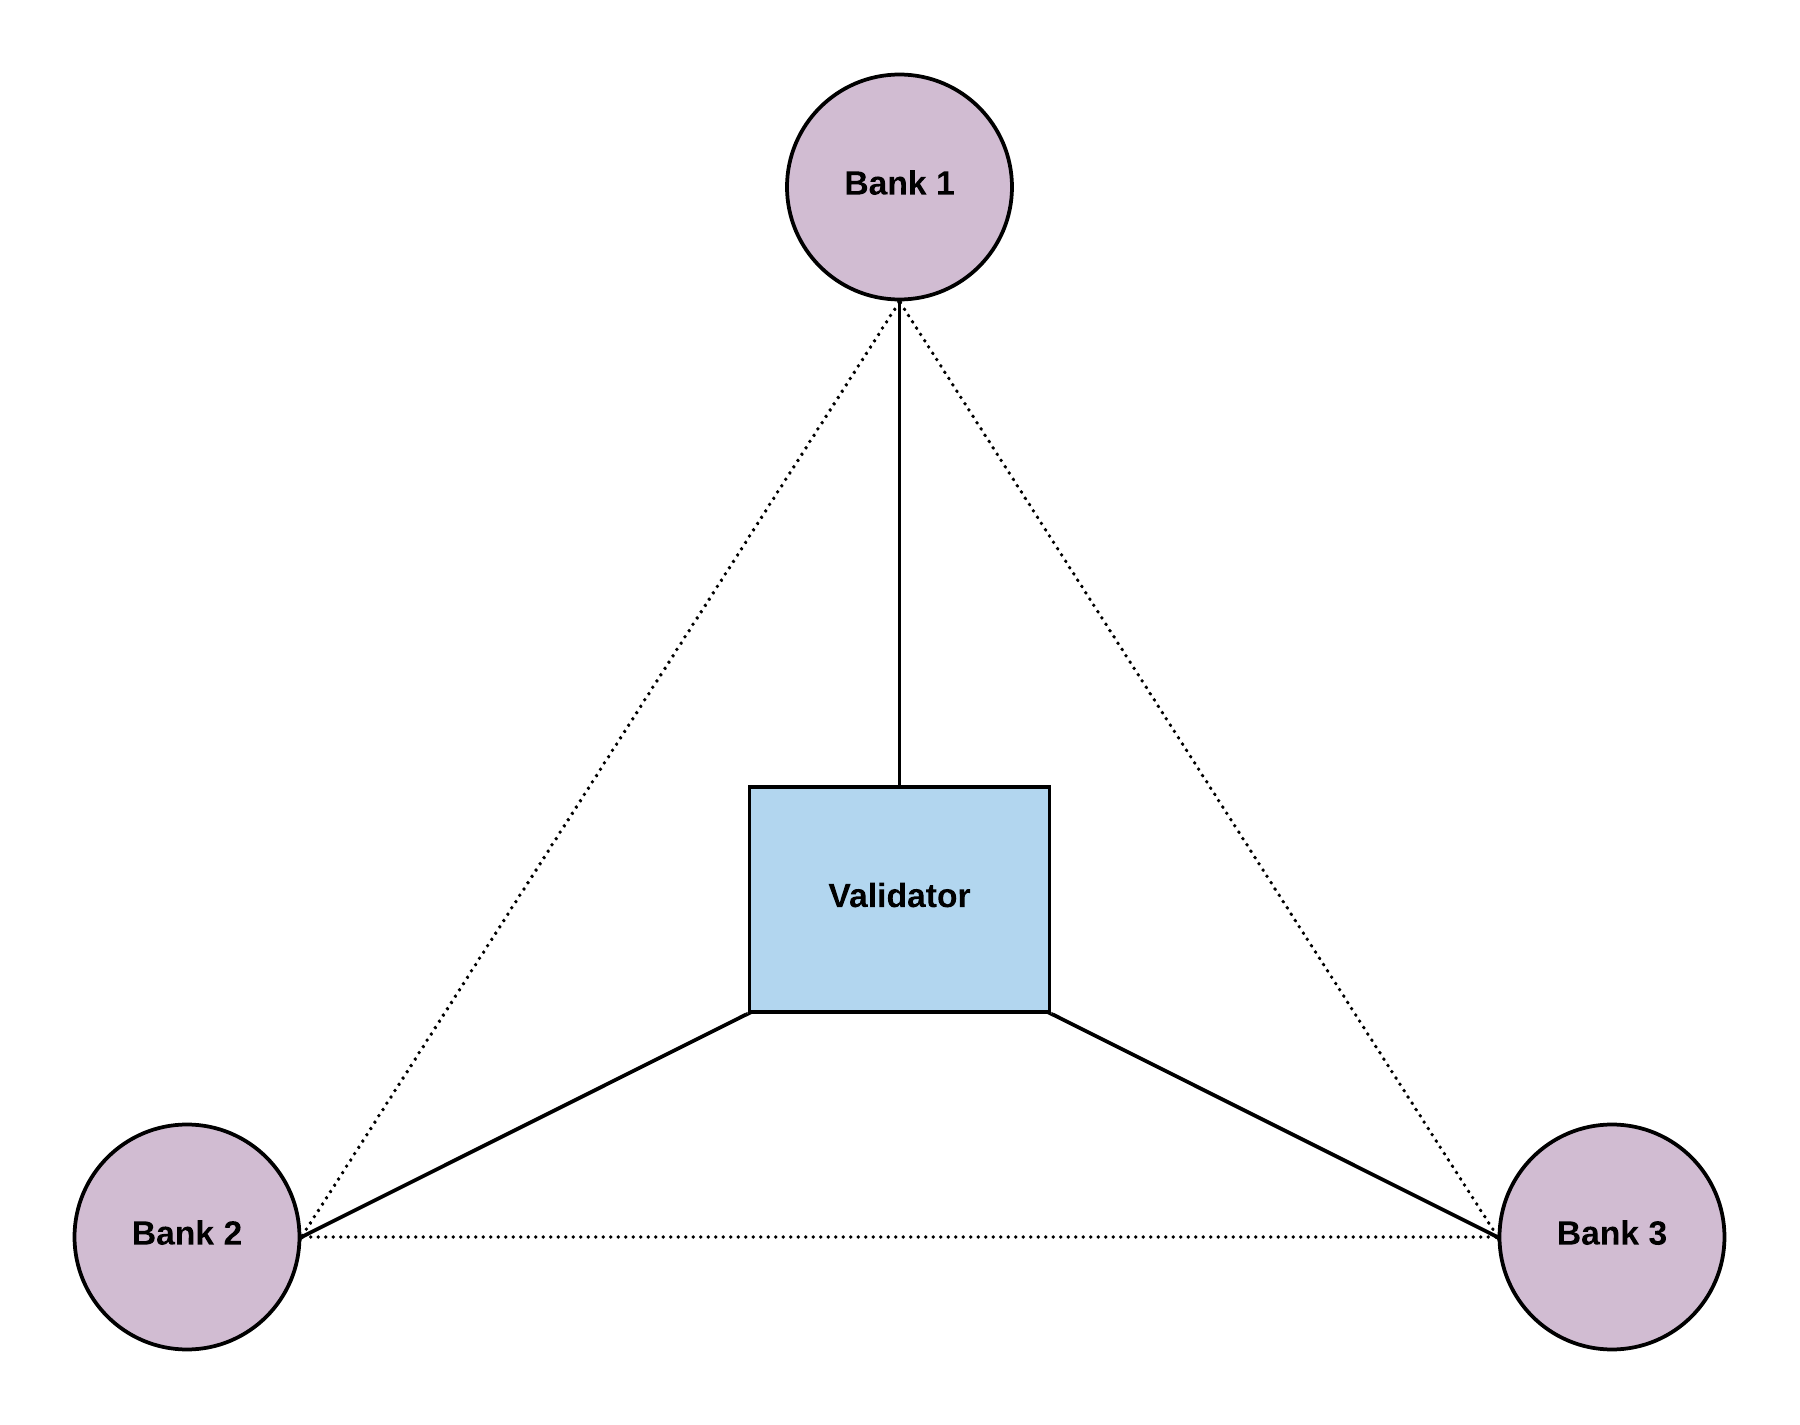
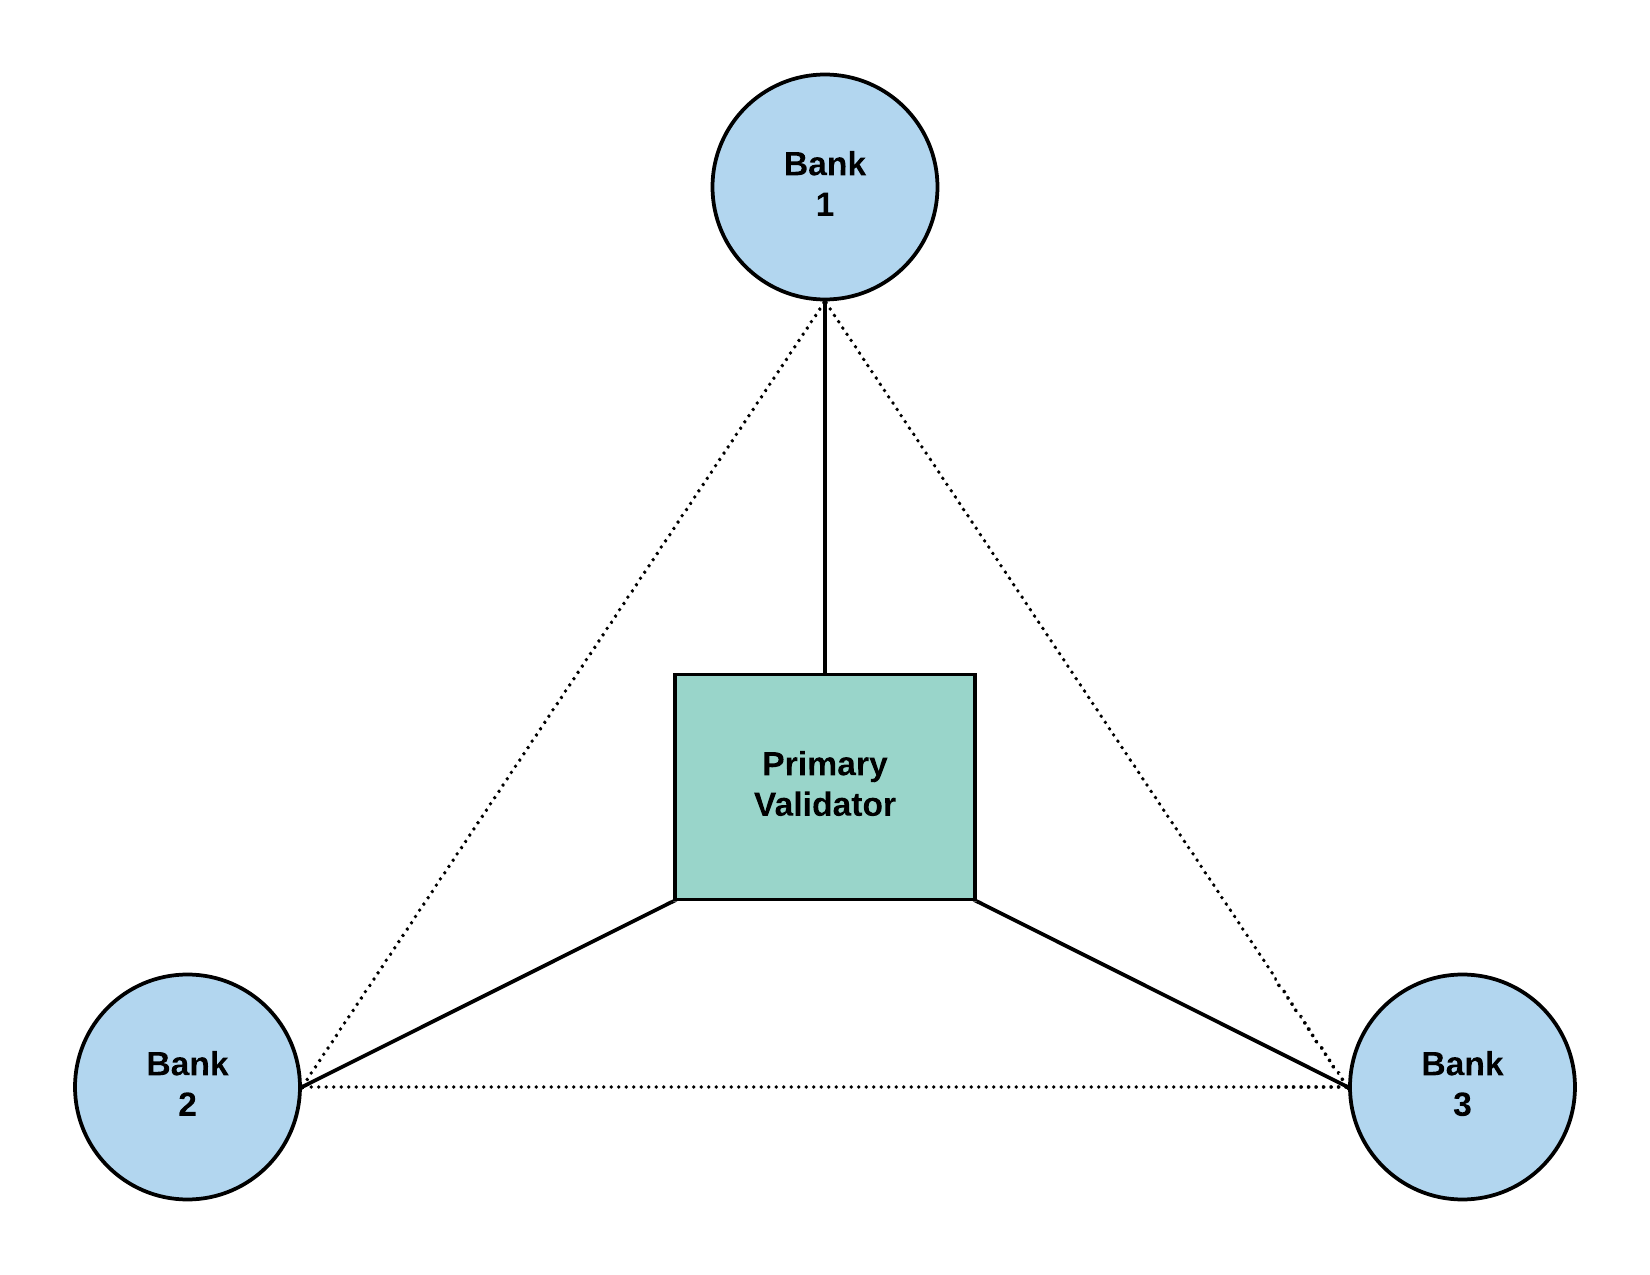
Working on Bank page

diff --git a/src/containers/Docs/Banks/index.tsx b/src/containers/Docs/Banks/index.tsx
@@ -17,7 +17,7 @@ const Banks = () => {
       <p>
         Regarding network related responsibilities, banks are responsible for assigning trust levels to validators. This
         will allow the network to not only reach consensus of the primary validator, but also determine the line of
-        succession from a list of backup validators in the event the primary validator were to go offline.
+        succession from a list of confirmation validators in the event the primary validator was to go offline.
       </p>
       <p>
         The election of a trusted validator is performed by all banks through the processes of setting a chosen
@@ -25,9 +25,11 @@ const Banks = () => {
         who has earned the highest amount of trust, but is not a strict requirement. Only one primary validator is
         allowed per bank.
       </p>
+
       <div className="img-container">
         <img alt="validator election" className="validator-election" src={ValidatorElection} />
       </div>
+
       <p>
         Given the architecture of a peer-to-peer network, all bank nodes are always in constant communication with one
         another. This will allow them to view each other's trust levels of all validators on the network. Through doing
@@ -50,27 +52,29 @@ const Banks = () => {
         In addition to the responsibilities to the network, banks also have responsibilities to their users (account
         owners). When users first download account manager applications and create their accounts, they will then select
         a bank in which they wish to register an account with. Upon successful registration with the bank, they are then
-        able to connect to the network through that bank and may begin sending transactions.
+        able to connect to the network through that bank and may begin sending blocks.
       </p>
       <p>
         Banks prevent users from the need to set up and maintain their own network servers. Banks will also assign trust
-        levels to all of the registered accounts, similar to how trust levels are assigned to validators. The specific
+        levels to all of their registered accounts, similar to how trust levels are assigned to validators. The specific
         method of assigning trust levels to the registered accounts is entirely up to the bank itself, but in general
         banks will often assign trust levels based on several factors including:
       </p>
+
       <ul className="mb-20">
         <li>time since account was first registered (older accounts are generally more trusted)</li>
         <li>previous attempts to register with multiple banks</li>
         <li>previous attempts to pay with insufficient funds</li>
         <li>improper formatting of Txs</li>
       </ul>
+
       <p>
-        Lastly, banks will collect transaction fees via transactions sent from users. The transaction fees are
-        determined by the individual banks. This will give users the ability to join banks with the most reliable
+        Lastly, banks will collect transaction fees via transactions sent from registered accounts. The transaction fees
+        are determined by the individual banks. This will give users the ability to join banks with the most reliable
         service and who offer the lowest transaction fees. Transaction fees are also determined on a per account basis,
-        allowing the banks to reward their most trustworthy users. Transaction fees charged to accounts will often be
-        tier based, as determined by the users trust level, rather than determining the fees for each individual account
-        one by one.
+        allowing the banks to reward their most trustworthy users. Transaction fees charged to user accounts will often
+        be tier based, as determined by the users trust level, rather than determining the fees for each individual
+        account one by one.
       </p>
       <p>
         As briefly mentioned earlier, before users are able to use a bank's services they must first register one (or
@@ -86,16 +90,18 @@ const Banks = () => {
         that account to register. The process of temporarily denying account registrations by other banks is referred to
         as "locking out" the account. Banks will "unlock" the account when an update from the inquiring bank is received
         informing them of the results (that the account was either accepted or rejected). If no update is received,
-        banks will have to query the original bank to review both their registration and account lists in order to
-        obtain the updated status of that user account.
+        banks will have to query the original bank to review both the registration and user account lists in order to
+        obtain the updated status of that account.
       </p>
+
       <div className="img-container">
         <img alt="registration bank members" className="registration-bank-members" src={RegistrationBankMembers} />
       </div>
+
       <p>
         During this check, if it is discovered that the account is already registered at another bank, the new bank will
         block that account and broadcast their misbehavior to the network. The bank in which they are already registered
-        may block them as well, but a more likely scenario is simply a reduced trust level. They will also check that
+        may block them as well, but a more likely scenario is simply a reduced trust level. Banks will also check that
         the account does not have an untrusted reputation (this does not apply to new accounts). If the account is found
         to be untrusted, the registration status will be set to "rejected" and the account will need to register at a
         different bank.
@@ -111,9 +117,11 @@ const Banks = () => {
         form of reduced trust. In addition, if a bank is caught misleading other banks (not revealing their accounts,
         providing false information, etc...) they will be punished by the network in the form of reduced trust.
       </p>
+
       <div className="img-container">
         <img alt="banks and accounts" className="banks-and-accounts" src={BanksAndAccounts} />
       </div>
+
       <p>
         Important Note: If and when a bank server goes down, the points of all accounts registered with that bank remain
         secure. This is because unlike a real-world bank, network banks do not store points. All account balances are
